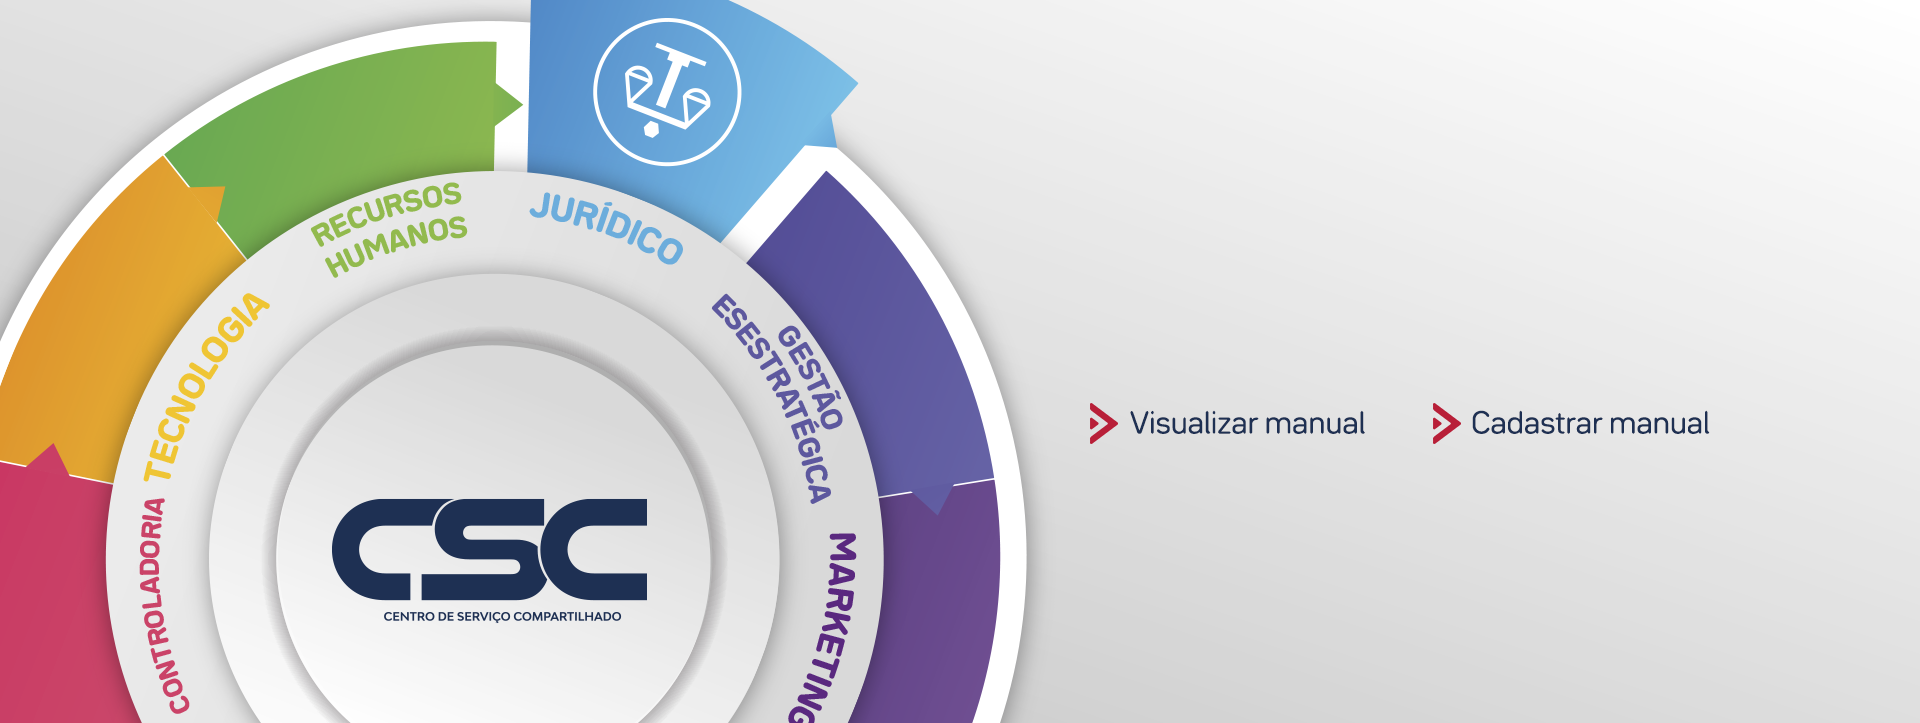
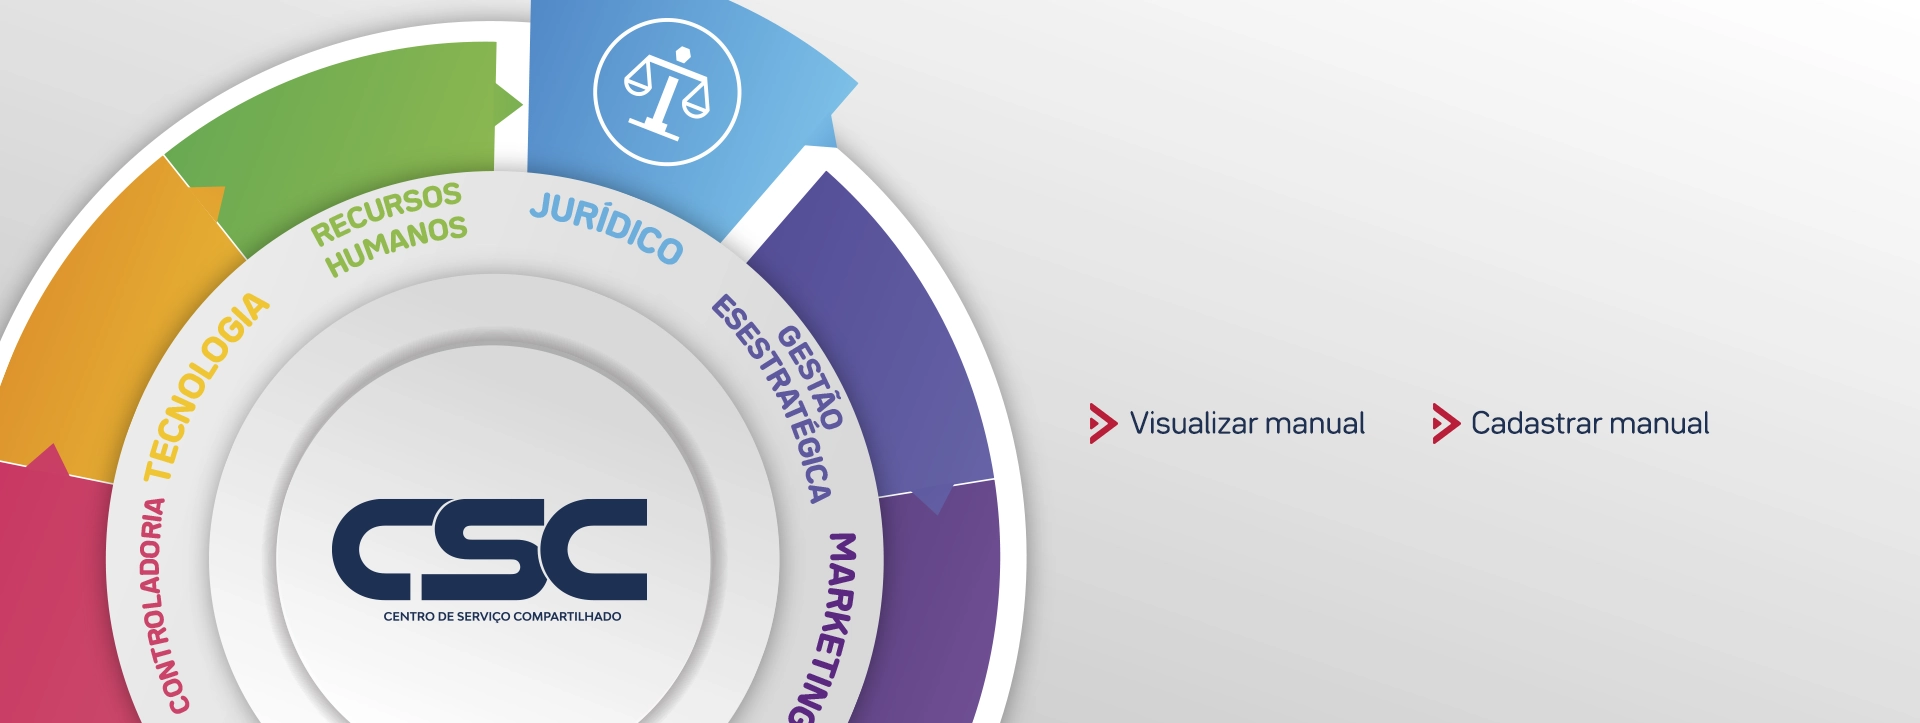
atualizações nas capas

Changed region(s): [[0.3125, 0.0609, 0.375, 0.1826], [0.0938, 0.426, 0.125, 0.5477], [0.0625, 0.5781, 0.0938, 0.6694]]

diff --git a/src/scenes/vendastotaltrade/index.jsx b/src/scenes/vendastotaltrade/index.jsx
@@ -4,7 +4,7 @@ import { LinkPowerbi } from "../../components/LinkPowerbi";
 const VendastotalTrade = () => {
   return (
     <LinkPowerbi
-      url="https://app.powerbi.com/view?r=eyJrIjoiMmMxNTVhNTgtMGMzNS00OWU1LWEwNTktNGI3NDlhNTZmZDU4IiwidCI6ImFkNDA4MGMwLTRlMjgtNGI0NC05ZTVjLWE1YTk4MzdkNzg1YyJ9"
+      url="https://app.powerbi.com/view?r=eyJrIjoiMTUwMTExMTYtY2Y1MS00OTI4LTk5ZmItY2EwZGY3YmZiMDE3IiwidCI6ImFkNDA4MGMwLTRlMjgtNGI0NC05ZTVjLWE1YTk4MzdkNzg1YyJ9"
       descripton="RELATÓRIOS TRADE"
       title="Relatório de Trade"
       linkText="Abrir Relatório"

diff --git a/src/scenes/relatoriotrade/index.jsx b/src/scenes/relatoriotrade/index.jsx
@@ -7,7 +7,7 @@ const RelatorioTrade = () => {
     <>
     
     <LinkPowerbi
-      url="https://app.powerbi.com/view?r=eyJrIjoiZTYxYjYxMjktOWE1MC00MzRkLTliMjYtYjQ4ZjllMzg0YWU5IiwidCI6ImFkNDA4MGMwLTRlMjgtNGI0NC05ZTVjLWE1YTk4MzdkNzg1YyJ9"
+      url="https://app.powerbi.com/view?r=eyJrIjoiYjM2Y2UxZWEtOTAzYS00YWEzLTk5MTEtMDdiZGIxMDc4ZGI3IiwidCI6ImFkNDA4MGMwLTRlMjgtNGI0NC05ZTVjLWE1YTk4MzdkNzg1YyJ9"
       descripton="RELATÓRIOS TRADE"
       title="Relatório de Trade"
       linkText="Abrir Relatório"
